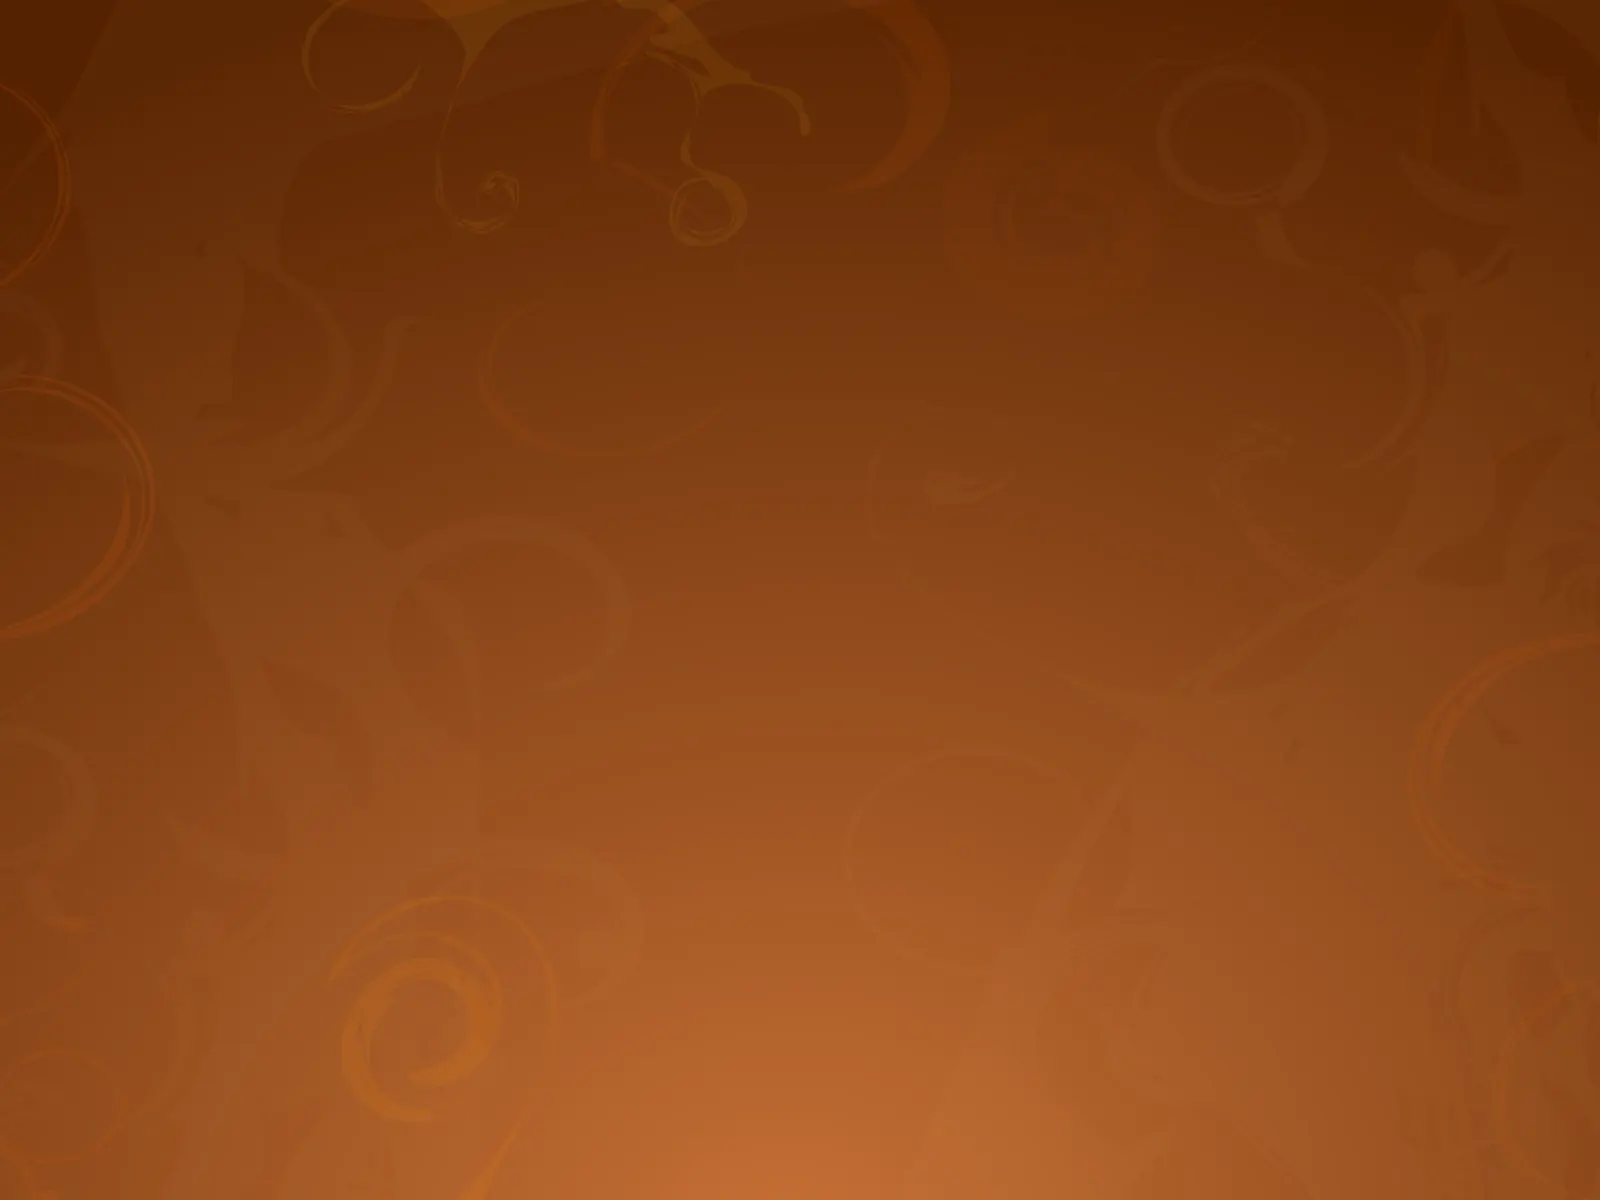
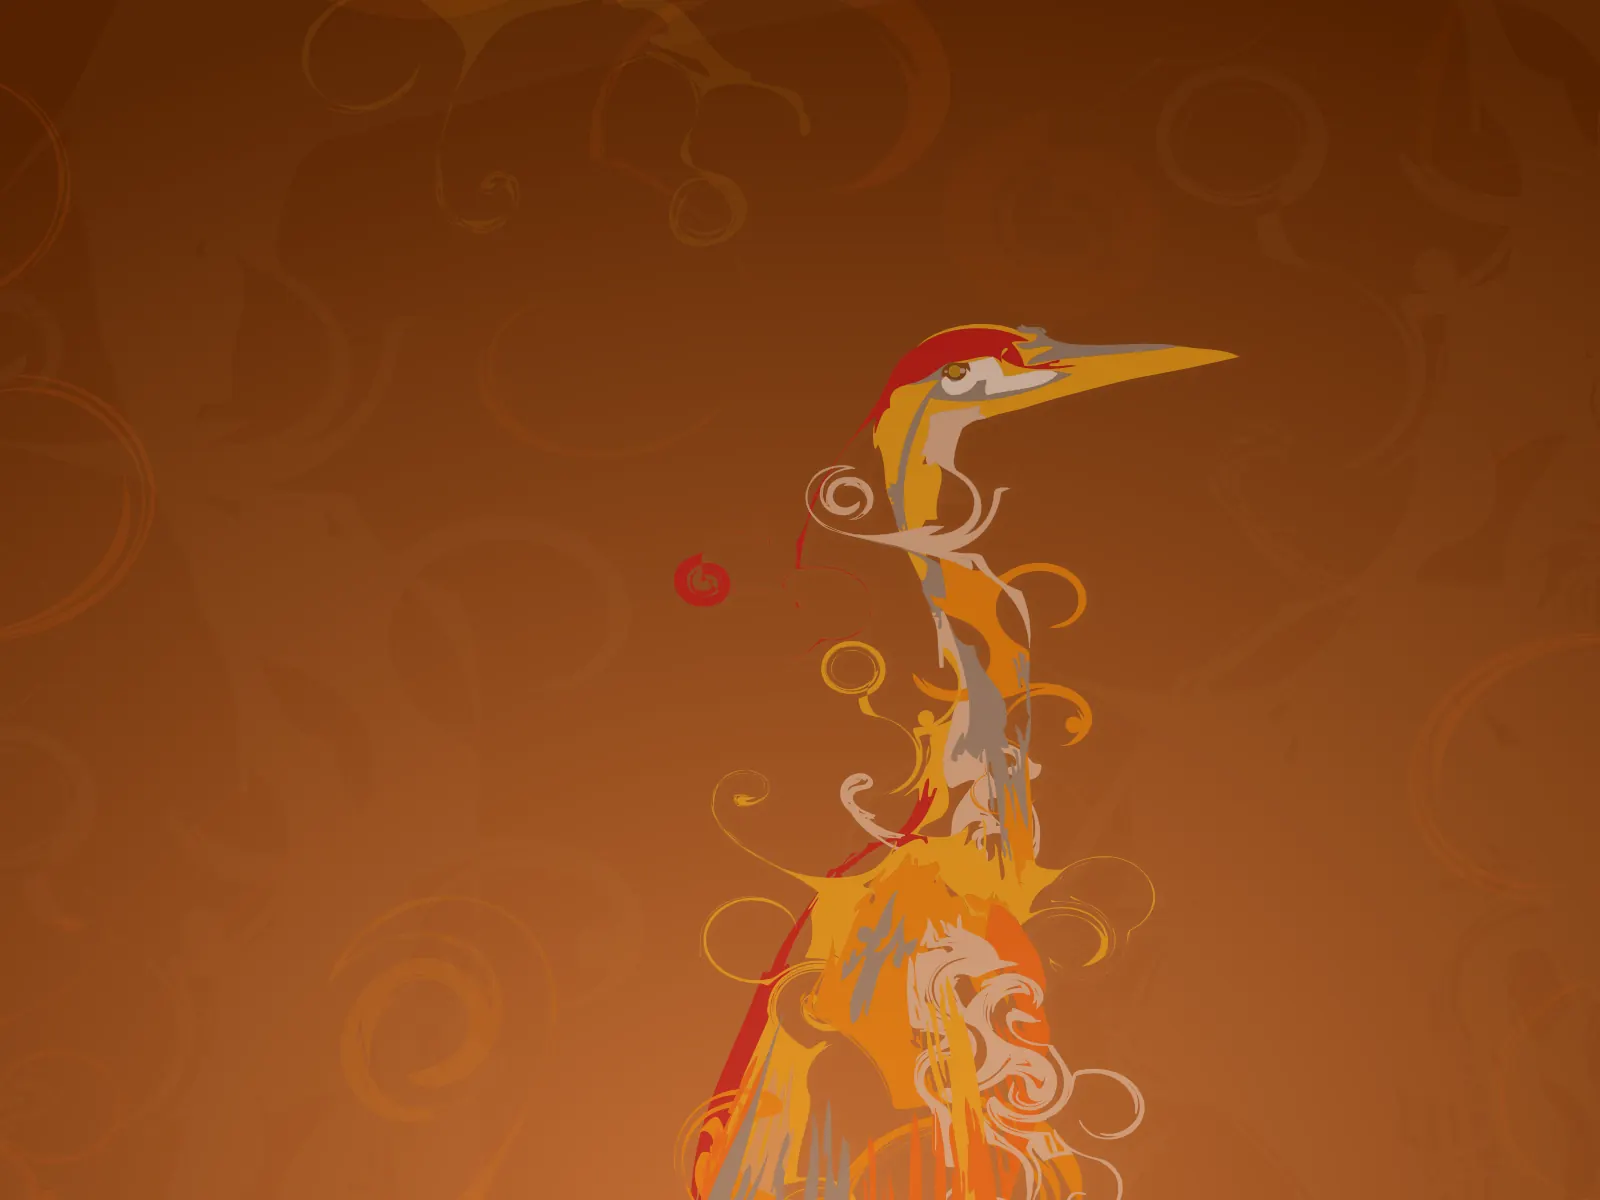
ubuntu804: ship the right wallpaper
The exposed strip along the bottom was heron-simple.png. It should have been
warty-final-ubuntu.png: Ubuntu 8.04 kept the historical Warty filename for its
DEFAULT background, the one with the heron on it, and shipped heron-simple.png
alongside as the plain swirls-only variant. The names say very nearly the
opposite of what the files contain, and
gnome-background-properties/ubuntu-wallpapers.xml lists warty-final-ubuntu.png
first, named "Ubuntu", with <options>zoom</options> - which also confirms
background-size:cover.

Two checks failed to catch it. The one that picked the file compared average
colour over the strip, and the two images are the same gradient with a bird on
one of them; an average over 1280x48 pixels cannot see a bird. RMSE could not
either - over a smooth gradient every candidate scaling of every candidate
file scored between 5.5% and 7.5%, and the wrong answer sometimes beat the
right one. Cropping the two strips and stacking them settled it immediately.

Wallpaper band: 6.16% -> 1.78%, against a floor of about 1.5%. The dithering
explanation for the old 6% was wrong; dithering accounts for the 1.5%.

Kept at quality 78. Unlike a plain gradient the setting does matter here
because the heron has hard edges, but only 1.76% against 1.52% for lossless,
which costs 290kB instead of 32kB and is indistinguishable at 2.5x zoom on the
48px anyone ever sees.

Also tightened verify.py's wallpaper row subset, which had been including two
[…]

diff --git a/rootdomain/tmp-ubuntu804/colophon/index.html b/rootdomain/tmp-ubuntu804/colophon/index.html
@@ -246,21 +246,48 @@ masthead at all.</p>
 
 <p>Every band of the chrome was diffed against the reference at 1× — the panel,
 the title bar, the menu bar, both toolbars, the status bar and the exposed
-wallpaper. Excluding text, six of the seven come out <strong>byte‐identical</strong>.</p>
+wallpaper. Excluding text, six of the seven come out <strong>byte‐identical</strong>. The
+seventh, the wallpaper, sits at 1.8% against a floor of about 1.5%.</p>
 
-<p>The seventh is the wallpaper, and finding out why was the most interesting
-thing here. All 921,600 pixels of the reference screenshot sit exactly on the
-RGB565 lattice: red and blue are multiples of 8, green of 4, with no
-exceptions. It was captured from a 16‐bit framebuffer. That has two
-consequences. Every colour measured off it is the truncated form of whatever
-the Human theme really specified, so the comparison truncates this site’s
-render the same way before measuring anything — otherwise a perfect match
-would still report about 2% error. And GNOME <em>dithered</em> the wallpaper down to
-those 16 bits: in a smooth patch of the reference strip, 77% of horizontally
-adjacent pixels differ, against 27% for a clean resample of the same file.
-That per‐pixel noise is unreproducible by anything drawing in 24‐bit colour, so
-roughly 6% is the floor there. Lossless WebP scores no better than quality 78,
-which is how you know the format is not the limiting factor.</p>
+<p>Two things set that floor. All 921,600 pixels of the reference screenshot sit
+exactly on the RGB565 lattice: red and blue are multiples of 8, green of 4,
+with no exceptions. It was captured from a 16‐bit framebuffer. So every colour
+measured off it is the truncated form of whatever the Human theme really
+specified, and the comparison truncates this site’s render the same way before
+measuring anything — otherwise a perfect match would still report about 2%. And
+GNOME <em>dithered</em> the wallpaper down into those 16 bits: in a smooth patch of
+the reference strip, 77% of horizontally adjacent pixels differ, against 27%
+for a clean resample of the same file. That per‐pixel noise cannot be
+reproduced by anything drawing in 24‐bit colour.</p>
+
+<h2>The wallpaper was the wrong file for a while</h2>
+
+<p>Worth writing down, because the way it went undetected is more interesting
+than the mistake.</p>
+
+<p>Ubuntu 8.04 kept the historical filename <code>warty-final-ubuntu.png</code> for its
+default desktop background — the one with the heron on it — and shipped
+<code>heron-simple.png</code> alongside as the plain, swirls‐only variant. The names say
+very nearly the opposite of what the files contain, and this site shipped the
+plain one.</p>
+
+<p>The check that picked it compared the <strong>average colour</strong> of the exposed strip
+against the average colour of the candidate file, and they agreed to about one
+part in sixty. Of course they did: the two images are the same gradient, one of
+them with a bird on it. An average over 1280×48 pixels cannot see a bird.</p>
+
+<p>Nor could RMSE, which is the tool that had been trusted for everything else.
+Over a large smooth gradient, every candidate scaling of every candidate file
+scored between 5.5% and 7.5% — the surface is almost flat, and the <em>wrong</em>
+answer was not merely close to the right one, it occasionally beat it. What
+settled the question in about four seconds was cropping both strips and putting
+them one above the other, where the reference plainly had grey and cream
+brushstrokes in it and this site plainly did not.</p>
+
+<p>Correcting the file moved the band from 6.16% to 1.78%. The lesson is not about
+wallpapers: a metric that aggregates over a large area is blind to a small
+bright thing inside it, and when a number refuses to move, the next step is to
+look at the pixels rather than to think harder about the number.</p>
 
 <h2>The clock</h2>
 

diff --git a/rootdomain/tmp-ubuntu804/s/site.css b/rootdomain/tmp-ubuntu804/s/site.css
@@ -114,11 +114,19 @@ body {
                                         * browser viewport inside it does */
   font: 400 var(--chrome-font)/1.2 var(--chrome-stack);
   color: var(--ink);
-  /* GNOME's "zoom" wallpaper mode is background-size:cover against the whole
-   * screen, and background-attachment:fixed is what makes "the whole screen"
-   * mean the viewport rather than this element's box. That matters: the strip
-   * along the bottom must show the same rows of heron-simple.png that a real
-   * 8.04 desktop would show there, not the bottom rows of the file. */
+  /* The wallpaper is warty-final-ubuntu.png, which despite the name is 8.04's
+   * default background — the one with the heron. heron-simple.png is the plain
+   * variant, and shipping it instead was a real bug here for a while: the two
+   * differ by 6% RMSE over the visible strip, and the correct file scores
+   * 1.5%.
+   *
+   * ubuntu-wallpapers.xml declares <options>zoom</options> for it, and GNOME's
+   * zoom mode is background-size:cover against the whole screen.
+   * background-attachment:fixed is what makes "the whole screen" mean the
+   * viewport rather than this element's box, which is the part that matters:
+   * the strip along the bottom has to show the rows a real 8.04 desktop would
+   * show there, not the bottom rows of the file. At 1280x720 that is source
+   * rows 990-1049, which catches the bird's tail feathers. */
   background: var(--wallpaper-avg) url(/tmp-ubuntu804/i/heron.webp) center center / cover no-repeat fixed;
 }
 

diff --git a/ubuntu804/site.css b/ubuntu804/site.css
@@ -114,11 +114,19 @@ body {
                                         * browser viewport inside it does */
   font: 400 var(--chrome-font)/1.2 var(--chrome-stack);
   color: var(--ink);
-  /* GNOME's "zoom" wallpaper mode is background-size:cover against the whole
-   * screen, and background-attachment:fixed is what makes "the whole screen"
-   * mean the viewport rather than this element's box. That matters: the strip
-   * along the bottom must show the same rows of heron-simple.png that a real
-   * 8.04 desktop would show there, not the bottom rows of the file. */
+  /* The wallpaper is warty-final-ubuntu.png, which despite the name is 8.04's
+   * default background — the one with the heron. heron-simple.png is the plain
+   * variant, and shipping it instead was a real bug here for a while: the two
+   * differ by 6% RMSE over the visible strip, and the correct file scores
+   * 1.5%.
+   *
+   * ubuntu-wallpapers.xml declares <options>zoom</options> for it, and GNOME's
+   * zoom mode is background-size:cover against the whole screen.
+   * background-attachment:fixed is what makes "the whole screen" mean the
+   * viewport rather than this element's box, which is the part that matters:
+   * the strip along the bottom has to show the rows a real 8.04 desktop would
+   * show there, not the bottom rows of the file. At 1280x720 that is source
+   * rows 990-1049, which catches the bird's tail feathers. */
   background: var(--wallpaper-avg) url({{ROOT}}/i/heron.webp) center center / cover no-repeat fixed;
 }
 

diff --git a/ubuntu804/verify.py b/ubuntu804/verify.py
@@ -17,7 +17,21 @@ Two things about this comparison are worth knowing before reading its output.
     anything is measured. Otherwise a perfect render would still report ~2%
     RMSE and the number would mean nothing.
 
-2.  SOME BANDS CANNOT REACH ZERO, BY DESIGN.  The panel says
+2.  THIS BAND CAUGHT A REAL BUG, AND ALMOST DID NOT.  The wallpaper band sat
+    at 6% for a while, and the explanation on file was dithering. It was the
+    wrong image: Ubuntu 8.04 kept the historical name warty-final-ubuntu.png
+    for its DEFAULT background, the one with the heron on it, and shipped
+    heron-simple.png alongside as the plain swirls-only variant. The names say
+    the opposite of what they contain, and the check that picked the wrong one
+    compared AVERAGE COLOUR over the strip - which cannot distinguish a
+    gradient from the same gradient with a bird on it. RMSE over a smooth
+    gradient could not either: every candidate scaling of every candidate file
+    scored between 5.5% and 7.5%. What settled it was looking at the two
+    strips side by side. Correcting the file took the band from 6.16% to
+    1.78%. If a band is stuck, put it on screen next to the reference before
+    believing any story about why.
+
+3.  SOME BANDS CANNOT REACH ZERO, BY DESIGN.  The panel says
     "dreamstation.systems" where the reference says "Live session user"; the
     title bar and location bar carry this site's title and URL; the bookmarks
     row is this site's navigation. Those bands are reported, but the number to
@@ -80,12 +94,17 @@ BANDS = [
          chrome=[(60, 1250)],
          note="'Done' is the only text and it is identical"),
     dict(name="wallpaper", y0=635, y1=719, anchor="bottom", probe=300,
-         chrome=[(0, 1280)], rows=list(range(0, 7)) + list(range(40, 48)),
-         note="bare desktop rows above/below the badge shelf. ~6% is the FLOOR "
-              "here: GNOME dithered the wallpaper down to 16-bit, so 77% of "
-              "adjacent pixels in a smooth patch of the reference differ, "
-              "against 27% for a clean resample. WebP quality is irrelevant "
-              "to this number - lossless scores identically."),
+         # A badge is 31px plus a 1px keyline, so its box is 33px centred in a
+         # 48px strip: rows 8..40. Rows 40 and 41 were in this list and clipped
+         # the bottom keyline, which put 2.7 points of badge into a number
+         # reported as bare wallpaper.
+         chrome=[(0, 1280)], rows=list(range(0, 7)) + list(range(42, 48)),
+         note="bare desktop rows above/below the badge shelf. ~1.5% is the "
+              "FLOOR: GNOME dithered the wallpaper into 16 bits, so 77% of "
+              "adjacent pixels in a smooth patch of the reference differ "
+              "against 27% for a clean resample, and WebP q78 adds ~0.25 "
+              "more. This band read 6% until the wallpaper turned out to be "
+              "the wrong file - see the docstring."),
 ]
 
 

diff --git a/ubuntu804/pages/colophon.md b/ubuntu804/pages/colophon.md
@@ -45,21 +45,48 @@ masthead at all.
 
 Every band of the chrome was diffed against the reference at 1× — the panel,
 the title bar, the menu bar, both toolbars, the status bar and the exposed
-wallpaper. Excluding text, six of the seven come out **byte‐identical**.
+wallpaper. Excluding text, six of the seven come out **byte‐identical**. The
+seventh, the wallpaper, sits at 1.8% against a floor of about 1.5%.
 
-The seventh is the wallpaper, and finding out why was the most interesting
-thing here. All 921,600 pixels of the reference screenshot sit exactly on the
-RGB565 lattice: red and blue are multiples of 8, green of 4, with no
-exceptions. It was captured from a 16‐bit framebuffer. That has two
-consequences. Every colour measured off it is the truncated form of whatever
-the Human theme really specified, so the comparison truncates this site’s
-render the same way before measuring anything — otherwise a perfect match
-would still report about 2% error. And GNOME *dithered* the wallpaper down to
-those 16 bits: in a smooth patch of the reference strip, 77% of horizontally
-adjacent pixels differ, against 27% for a clean resample of the same file.
-That per‐pixel noise is unreproducible by anything drawing in 24‐bit colour, so
-roughly 6% is the floor there. Lossless WebP scores no better than quality 78,
-which is how you know the format is not the limiting factor.
+Two things set that floor. All 921,600 pixels of the reference screenshot sit
+exactly on the RGB565 lattice: red and blue are multiples of 8, green of 4,
+with no exceptions. It was captured from a 16‐bit framebuffer. So every colour
+measured off it is the truncated form of whatever the Human theme really
+specified, and the comparison truncates this site’s render the same way before
+measuring anything — otherwise a perfect match would still report about 2%. And
+GNOME *dithered* the wallpaper down into those 16 bits: in a smooth patch of
+the reference strip, 77% of horizontally adjacent pixels differ, against 27%
+for a clean resample of the same file. That per‐pixel noise cannot be
+reproduced by anything drawing in 24‐bit colour.
+
+## The wallpaper was the wrong file for a while
+
+Worth writing down, because the way it went undetected is more interesting
+than the mistake.
+
+Ubuntu 8.04 kept the historical filename `warty-final-ubuntu.png` for its
+default desktop background — the one with the heron on it — and shipped
+`heron-simple.png` alongside as the plain, swirls‐only variant. The names say
+very nearly the opposite of what the files contain, and this site shipped the
+plain one.
+
+The check that picked it compared the **average colour** of the exposed strip
+against the average colour of the candidate file, and they agreed to about one
+part in sixty. Of course they did: the two images are the same gradient, one of
+them with a bird on it. An average over 1280×48 pixels cannot see a bird.
+
+Nor could RMSE, which is the tool that had been trusted for everything else.
+Over a large smooth gradient, every candidate scaling of every candidate file
+scored between 5.5% and 7.5% — the surface is almost flat, and the *wrong*
+answer was not merely close to the right one, it occasionally beat it. What
+settled the question in about four seconds was cropping both strips and putting
+them one above the other, where the reference plainly had grey and cream
+brushstrokes in it and this site plainly did not.
+
+Correcting the file moved the band from 6.16% to 1.78%. The lesson is not about
+wallpapers: a metric that aggregates over a large area is blind to a small
+bright thing inside it, and when a number refuses to move, the next step is to
+look at the pixels rather than to think harder about the number.
 
 ## The clock
 
